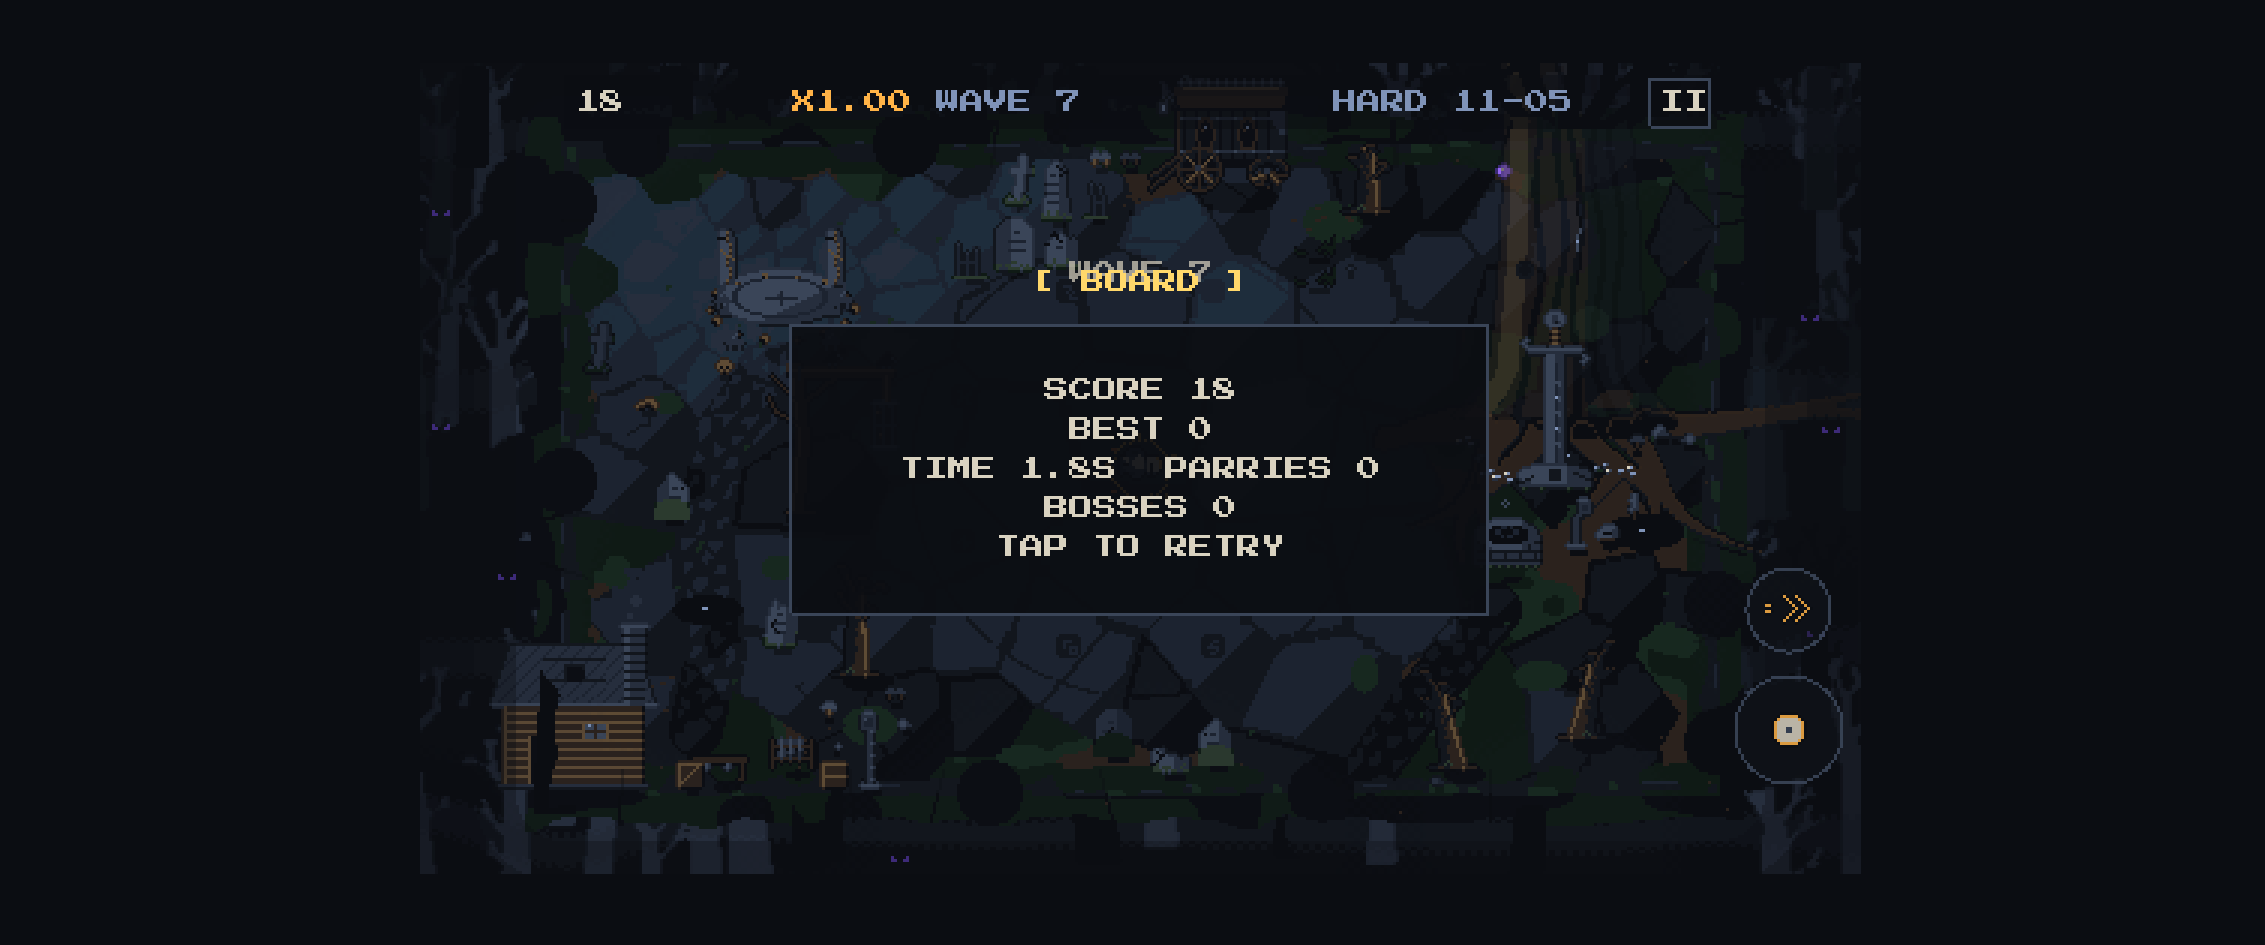
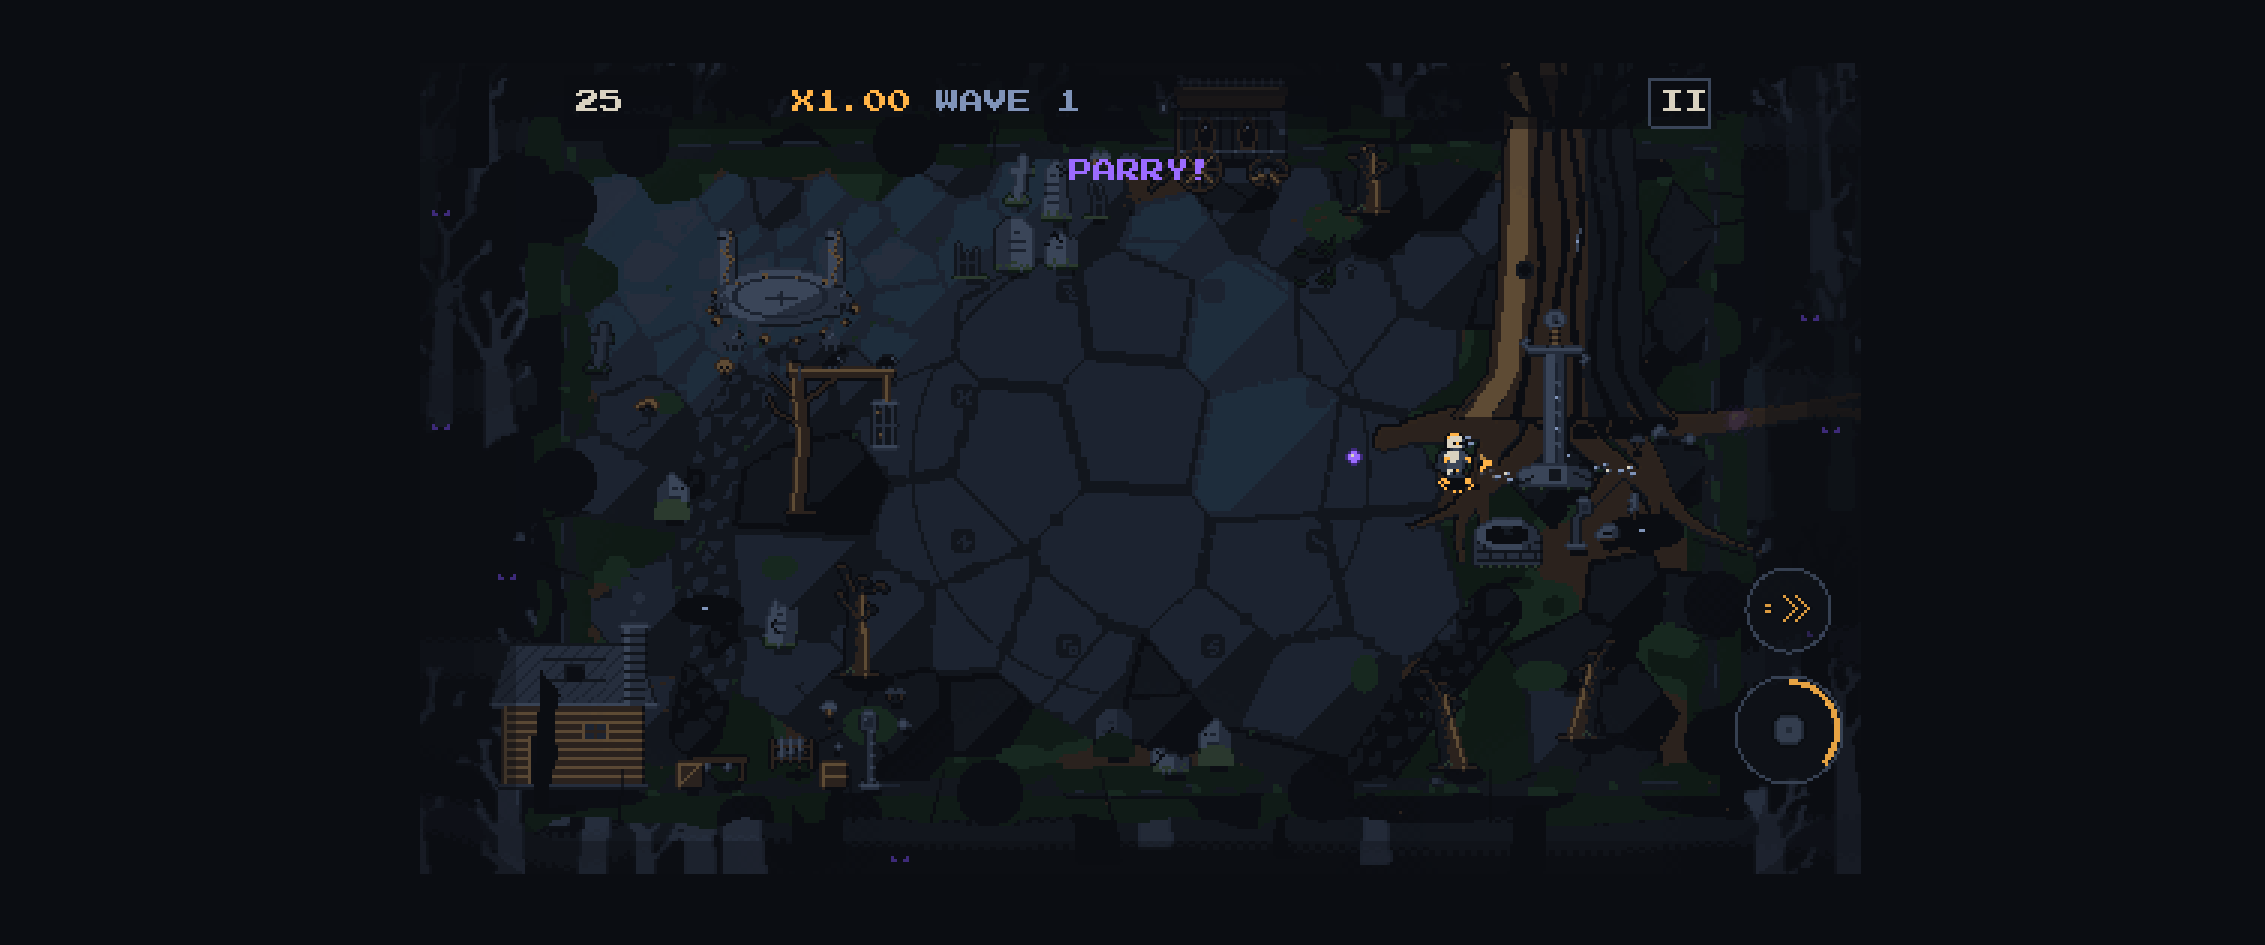
Tidy: adversarial review fixes
- docs/screenshots/run.png: a real mid-run frame (phone landscape, HUD, touch buttons) instead of a death
  panel; pixel-exact copy, losslessly optimised.
- tsconfig.json: type-check tools/bot (npm run bot runs it) instead of the removed scripts/ folder.
- SECURITY.md: a fallback when GitHub's private reporting button is not enabled yet.
- README / .gitignore: no audio files are committed yet (synthesized fallback).

Claude-Session: https://claude.ai/code/session_01Ng2YPPjcRqgbh5YHv3EBEA

diff --git a/README.md b/README.md
@@ -56,7 +56,7 @@ offline.
 | `src/data/` | tuning and game data |
 | `server/` | Cloudflare Worker + D1 for the Hard daily board (`server/migrations/`, `server/wrangler.toml`) |
 | `tools/` | deterministic Python art pipeline and checks; `tools/verify/` is the replay verifier, `tools/bot/` the balance bots |
-| `assets/` | generated art (sprites, atlas, backgrounds, data) and audio, committed so the site build needs no Python |
+| `assets/` | generated art (sprites, atlas, backgrounds, data), committed so the site build needs no Python; `assets/audio/` takes the mp3 files (none yet: synthesized fallback) |
 | `public/` | static files served as-is (font, icons, manifest, `og-image.png`, `_headers`) |
 | `tests/`, `tests-e2e/` | Vitest suites and Playwright scripts |
 | `docs/` | deploy guide, art and audio specs, README screenshots |

diff --git a/SECURITY.md b/SECURITY.md
@@ -6,6 +6,7 @@ Please report security problems **privately**, not in a public issue:
 use GitHub's **Report a vulnerability** button on the repository's **Security** tab (private vulnerability reporting).
 Include what you found, how to reproduce it and what an attacker could do with it. You will get an answer in that
 private advisory; please give us a reasonable time to fix it before you talk about it publicly.
+If the button is missing, open an issue that only asks for a private contact, without any details of the problem.
 
 ## In scope
 
